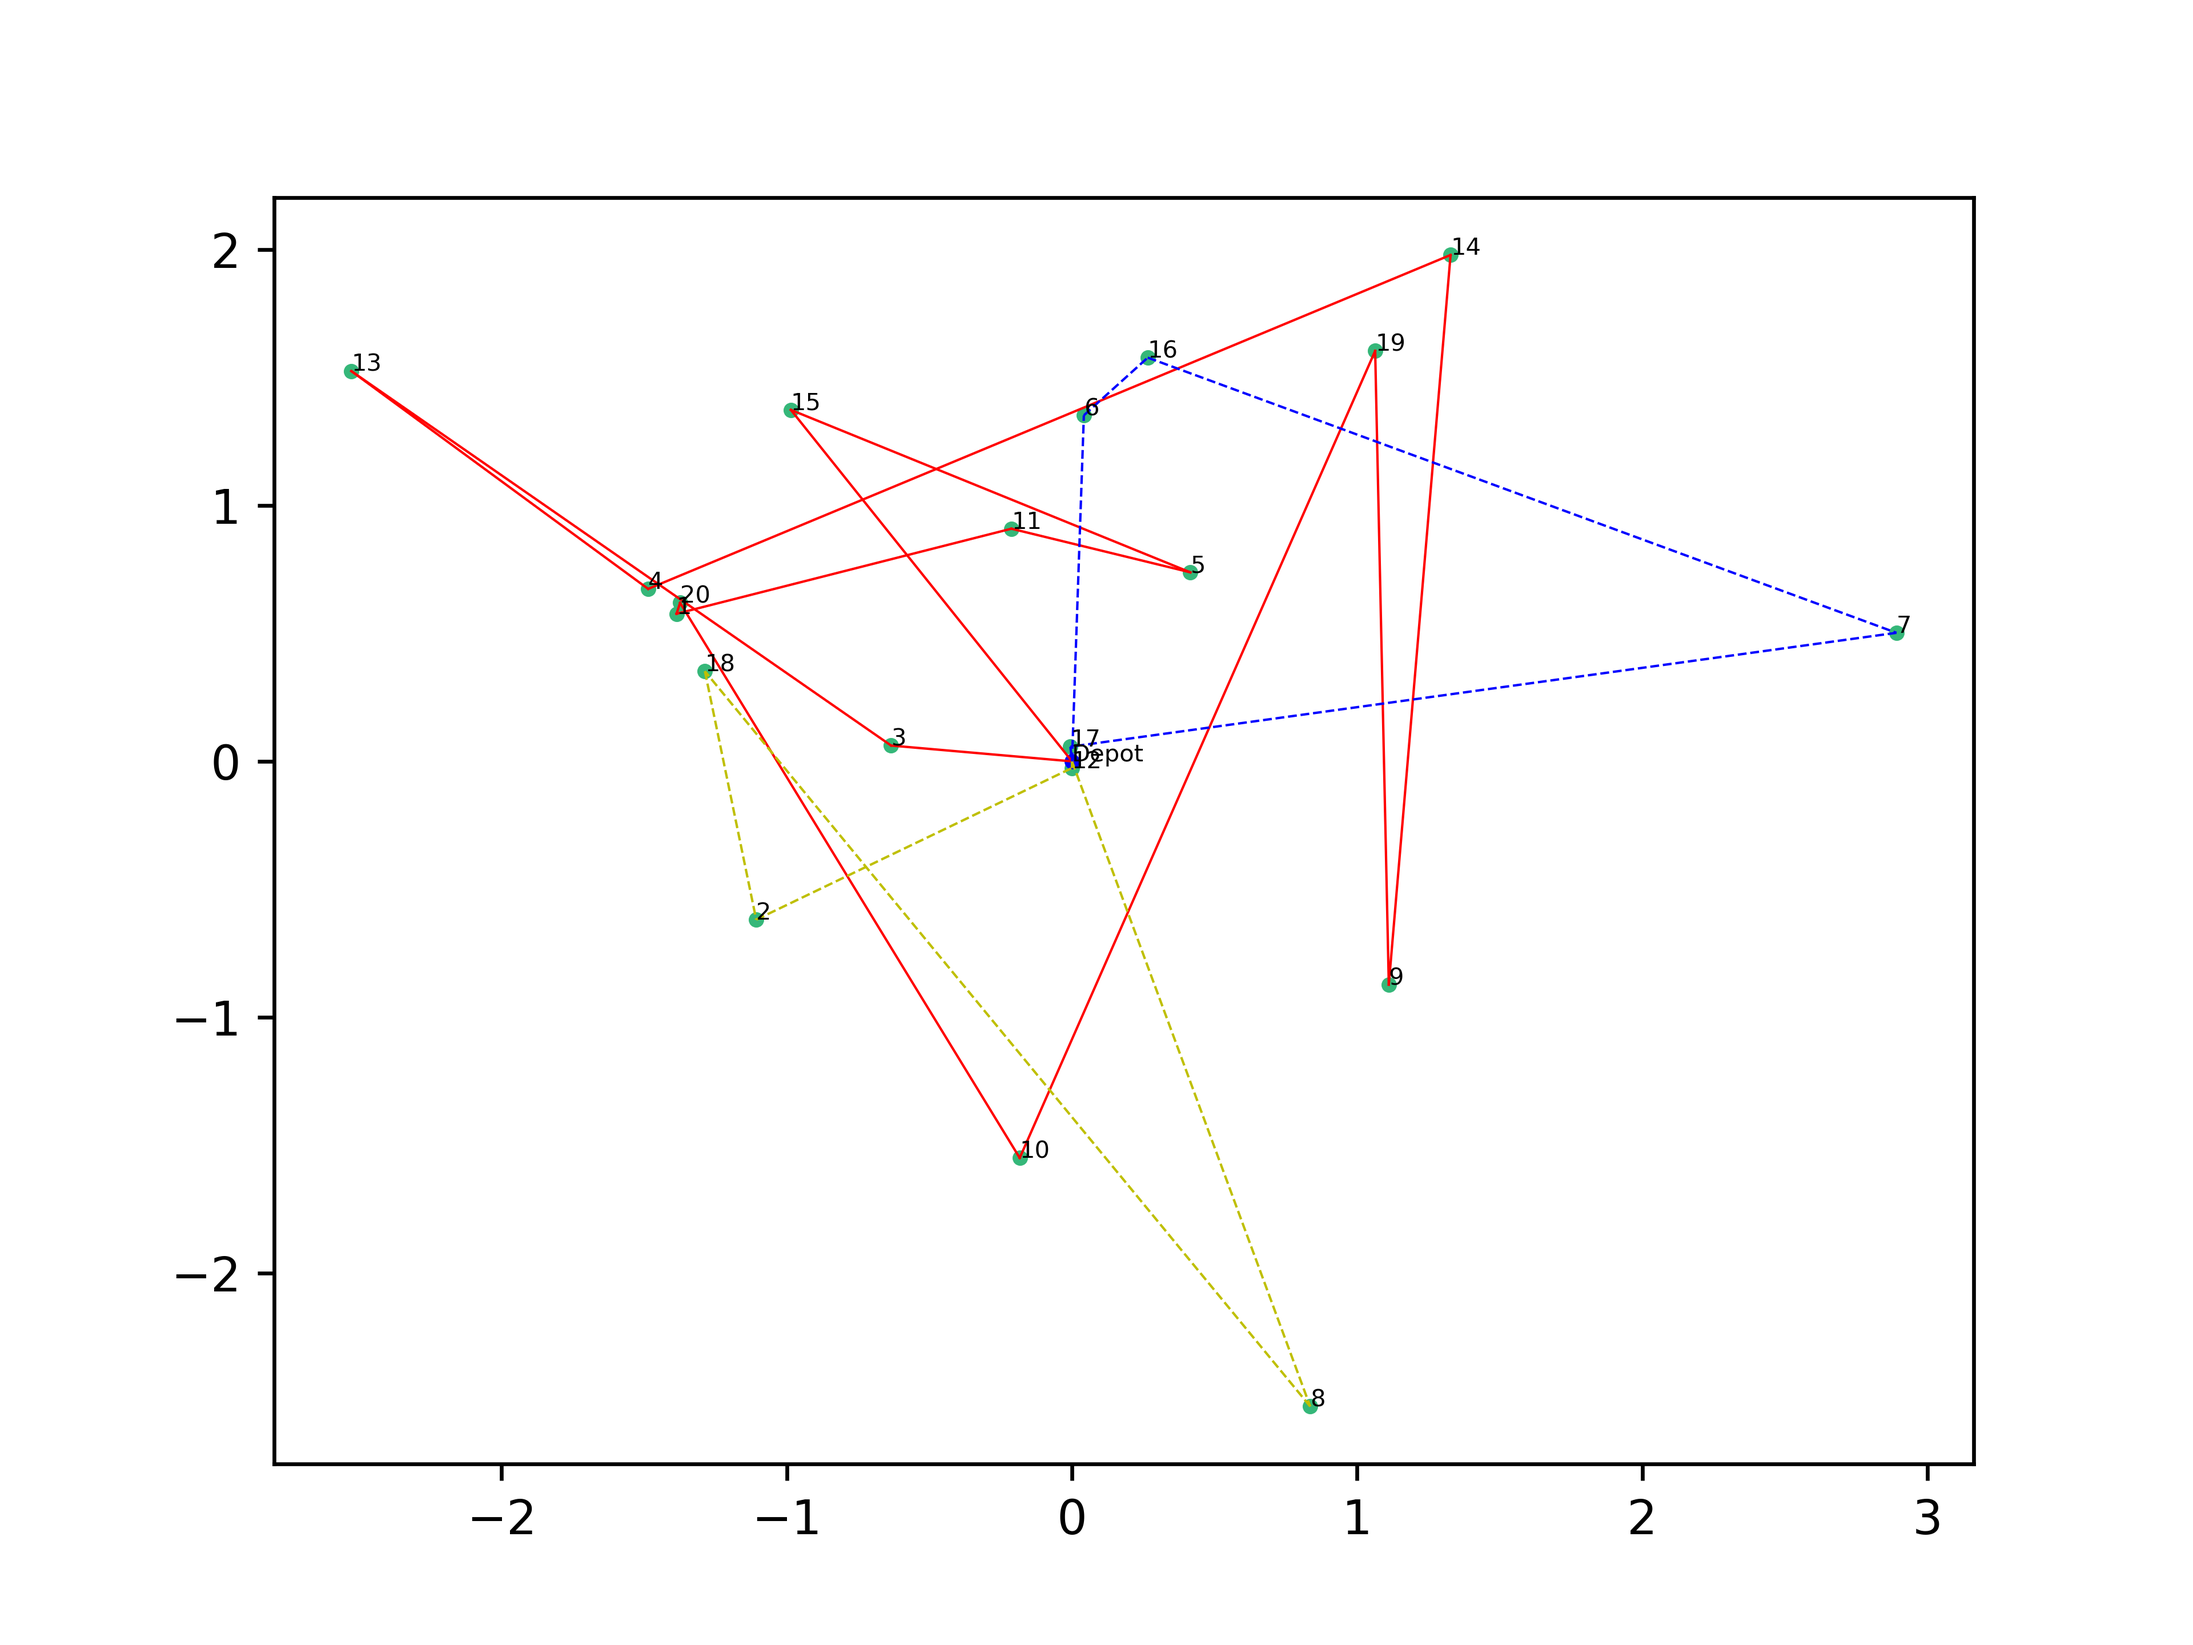
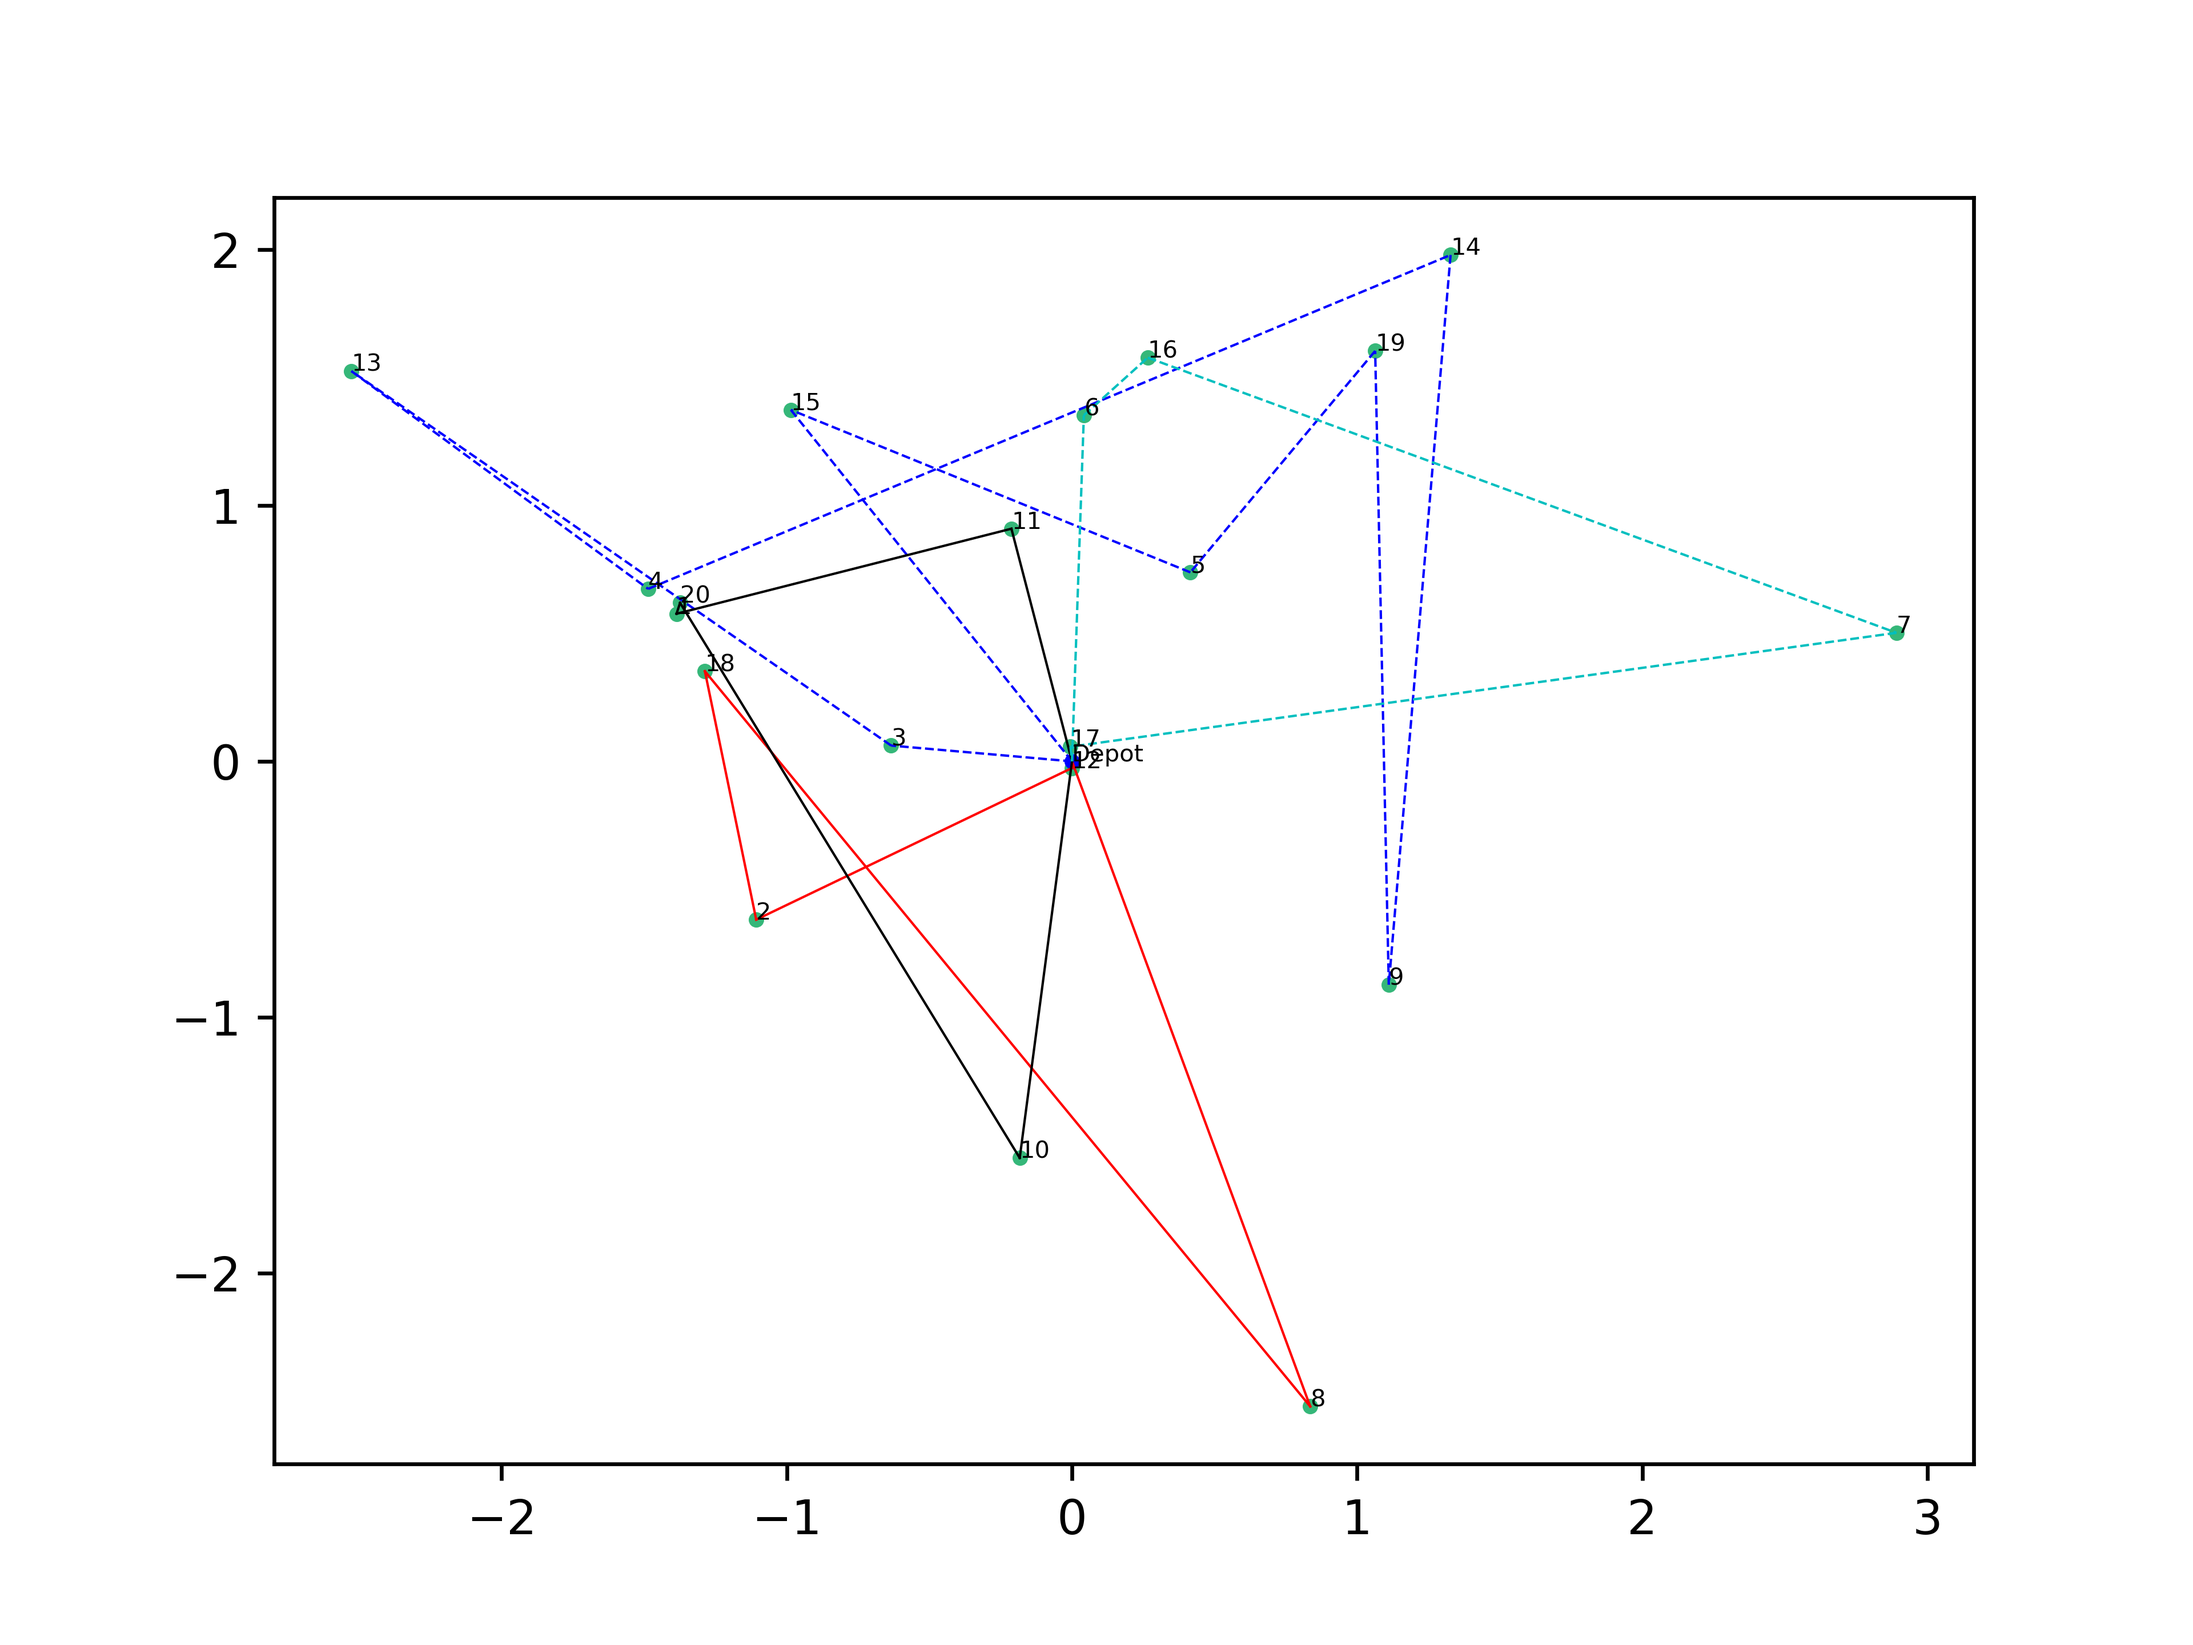
3.20 shaw算子修改

diff --git a/code/removal_requests.py b/code/removal_requests.py
@@ -79,12 +79,12 @@ def relatedness_calculate(solution, order_i, algorithm_input_data):
     for order_j in orders:
         if order_j != order_i:
             locations = {'A_i': algorithm_input_data.OAs.loc[order_i, 'Pickup'],
-                         'B_i': algorithm_input_data.OAs.loc[order_j, 'Pickup'],
-                         'A_j': algorithm_input_data.OAs.loc[order_i, 'Deliver'],
+                         'B_i': algorithm_input_data.OAs.loc[order_i, 'Deliver'],
+                         'A_j': algorithm_input_data.OAs.loc[order_j, 'Pickup'],
                          'B_j': algorithm_input_data.OAs.loc[order_j, 'Deliver'],
                          }
-            relatedness_d = algorithm_input_data.Distance_Mat[locations['A_i'], locations['B_i']] + \
-                            algorithm_input_data.Distance_Mat[locations['A_j'], locations['B_j']]
+            relatedness_d = algorithm_input_data.Distance_Mat[locations['A_i'], locations['A_j']] + \
+                            algorithm_input_data.Distance_Mat[locations['B_i'], locations['B_j']]
             T = {}
             for truck_ID, truck in solution.items():
                 for location_key, location in locations.items():
